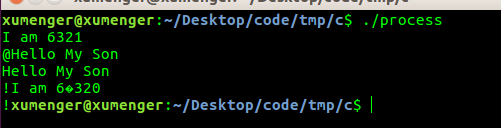
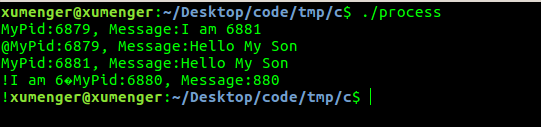
pipe

diff --git a/_posts/2017-02-10-linux-process-20170210.md b/_posts/2017-02-10-linux-process-20170210.md
@@ -2,7 +2,7 @@
 layout: post
 title: Linux开发简单多进程应用
 categories: c/c++之多进程 linux之多进程 windows之多进程 delphi之多进程
-tags: c c++ linux windows 事件对象 多进程 进程 fork pipe
+tags: c c++ linux windows 事件对象 多进程 进程 fork pipe 原子性 阻塞
 ---
 
 一个进程中的多个线程共享一个进程的堆等内存空间，所以实现数据交互是很方便的；但多进程架构中，要想实现多进程间的数据交互相对就困难很多！
@@ -31,60 +31,62 @@ Windows平台与进程相关的API有：CreateProcess、OpenProcess……
 
 int main()
 {
-	int mypipe[2];    //两个文件描述符
-	pid_t pid;
-	char buff[20];  
-	int i;
+  int mypipe[2];    //两个文件描述符
+  pid_t pid;
+  char buff[20];  
+  int i;
 
-	//创建管道
+  //创建管道
   if(0 > pipe(mypipe)){
-		printf("Create Pipe Error!\n");
+    printf("Create Pipe Error!\n");
   }
 
-	//创建2个子进程
-	for(i=0; i<2; i++){
-		pid = fork();
+  //创建2个子进程
+  for(i=0; i<2; i++){
+    pid = fork();
 
-		if((pid_t)0 >= pid){
-			sleep(1);
-			break;
-		}
-	}
-	//如果fork返回值小于0，说明创建子进程失败
-	if((pid_t)0 > pid){
-		printf("Fork Error!\n");
-		return 3;
-	}
-	
-	//如果fork返回值为0，表示进入子进程的逻辑
-	if((pid_t)0 == pid){
-		//发送格式化数据给主进程
-		FILE *f;
-		f = fdopen(mypipe[1], "w");
-		fprintf(f, "I am %d\n", getpid());
-		fclose(f);
+    if((pid_t)0 >= pid){
+      sleep(1);
+      break;
+    }
+  }
+  //如果fork返回值小于0，说明创建子进程失败
+  if((pid_t)0 > pid){
+    printf("Fork Error!\n");
+    return 3;
+  }
+  
+  //如果fork返回值为0，表示进入子进程的逻辑
+  if((pid_t)0 == pid){
+    //发送格式化数据给主进程
+    FILE *f;
+    f = fdopen(mypipe[1], "w");
+    fprintf(f, "I am %d\n", getpid());
+    fclose(f);
 
-		sleep(1);
+    sleep(1);
 
-		//接收父进程发过来的数据
-		read(mypipe[0], buff, 20);
-		printf("%s", buff);
-	}
-	//进入父进程的逻辑
-	else{
-		//循环接收所有子进程发过来的数据，并且返回数据给子进程
-		for(i=0; i<2; i++){
-			//接收子进程发来的数据
-			read(mypipe[0], buff, 20);
-			printf("%s", buff);
+    //接收父进程发过来的数据
+    read(mypipe[0], buff, 20);
+    printf("MyPid:%d, Message:%s", getpid(), buff);
+  }
+  //进入父进程的逻辑
+  else{
+    //循环接收所有子进程发过来的数据，并且返回数据给子进程
+    for(i=0; i<2; i++){
+      //接收子进程发来的数据
+      read(mypipe[0], buff, 20);
+      printf("MyPid:%d, Message:%s", getpid(), buff);
 
-			//发送数据给子进程
-			write(mypipe[1], "Hello My Son\n!", 14);
-		}
-		sleep(3);
-	}
+      //发送数据给子进程
+      write(mypipe[1], "Hello My Son\n!", 14);
+    }
+    //这里调用sleep(3)主要的作用是等待子进程运行结束
+    //当然这样并不是很规范！
+    sleep(3);
+  }
 
-	return 0;
+  return 0;
 }
 ```
 
@@ -92,10 +94,95 @@ int main()
 
 ![image](../media/image/2017-02-10/01.png)
 
-##
+但我们可以发现输出的内容有一些异常，比如第二行最开始怎么有一个@字符、!字符很乱等
+
+上面的输出有问题，其实是因为我对于管道的理解不深入导致的，只是简单的拿着API来用，不清楚底层的原理、调用API需要注意的事项等
+
+下面针对Linux的管道进行比较深入的挖掘！
+
+##管道是阻塞的
+
+管道读写是阻塞的，当管道中没有数据，但进程尝试去读的时候就会阻塞进程，比如
 
 ```
+#include <stdio.h>
+#include <sys/wait.h>
+#include <unistd.h>
 
+int main()
+{
+  int mypipe[2];
+  pid_t pid;
+  char buff[20];
+  int i;
+
+  if(0 > pipe(mypipe)){
+    printf("Create Pipe Error!\n");
+  }
+
+  pid = fork();
+
+  if((pid_t)0 > pid){
+    printf("Fork Error!\n");
+    return 3;
+  }
+  
+  if((pid_t)0 == pid){
+    //write(mypipe[1], "Hello\n", 6);
+  }
+  else{
+    read(mypipe[0], buff, 20);
+    printf("MyPid:%d, Message:%s", getpid(), buff);
+  }
+
+  return 0;
+}
 ```
+
+其运行效果如下，可以看到主进程阻塞住了
 
 ![image](../media/image/2017-02-10/02.png)
+
+可以修改让子进程往管道中写入数据，主进程再去读，这样就不会阻塞了
+
+```
+#include <stdio.h>
+#include <sys/wait.h>
+#include <unistd.h>
+
+int main()
+{
+  int mypipe[2];
+  pid_t pid;
+  char buff[20];
+  int i;
+
+  if(0 > pipe(mypipe)){
+    printf("Create Pipe Error!\n");
+  }
+
+  pid = fork();
+
+  if((pid_t)0 > pid){
+    printf("Fork Error!\n");
+    return 3;
+  }
+  
+  if((pid_t)0 == pid){
+    
+  }
+  else{
+    read(mypipe[0], buff, 20);
+    printf("MyPid:%d, Message:%s", getpid(), buff);
+  }
+
+  return 0;
+}
+```
+
+运行程序可以看到主进程没有阻塞
+
+![image](../media/image/2017-02-10/03.png)
+
+经过将程序完善修改后，得到我预期的输出！
+
